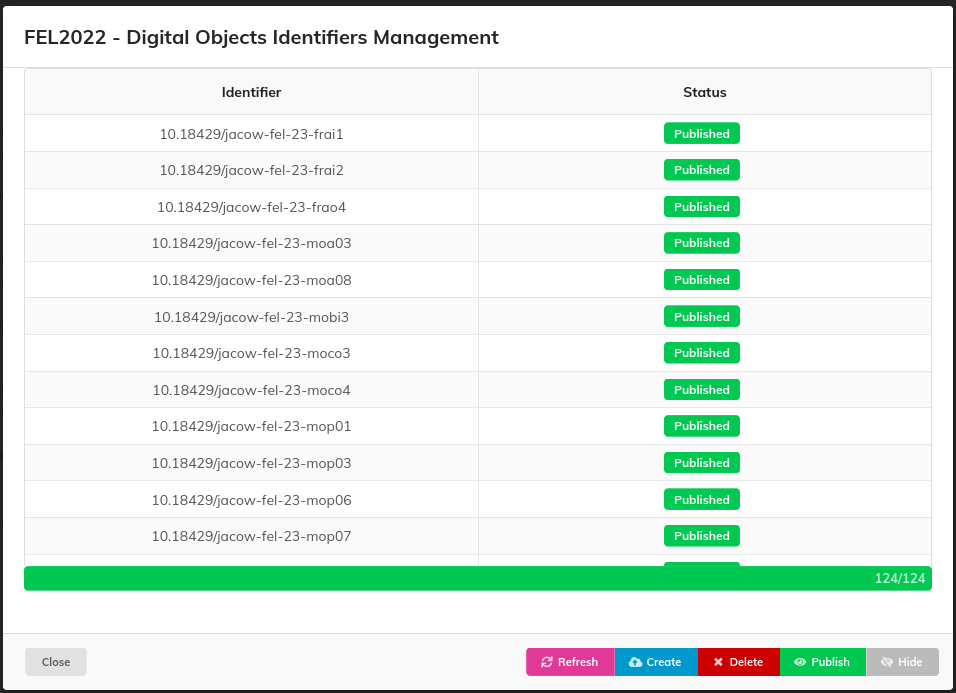
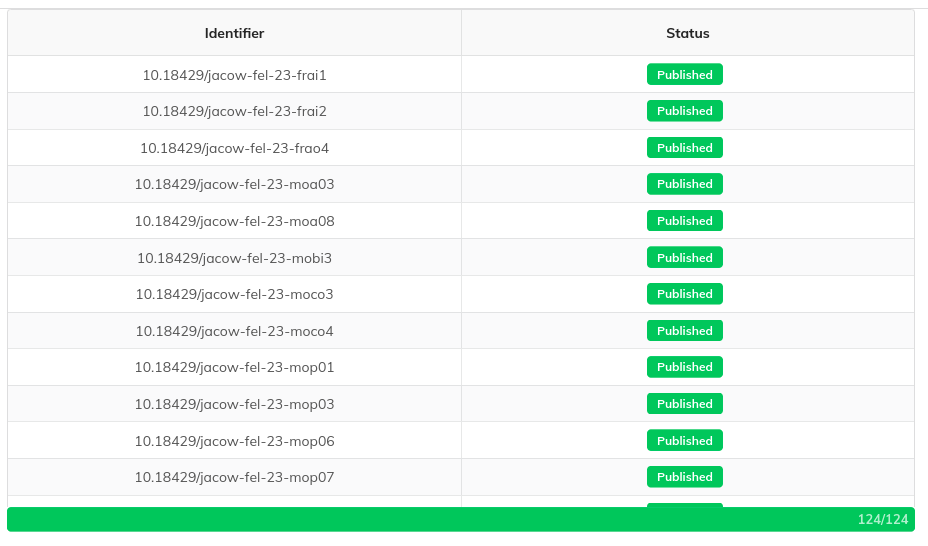
Special ISSN 0000-0000 function. DOI updates

diff --git a/docs/Functionalities/finalProceedings.md b/docs/Functionalities/finalProceedings.md
@@ -13,7 +13,7 @@ Both the 'Pre-Press' and 'Final Proceedings' buttons are related to the generati
 In fact, 'Pre-Press' involves:
 
 - Including contributions that have been accepted (green state) but have not undergone QA.
-- Excluding contribution slides, if any.
+- Excluding contribution slides and posters, if any.
 - Performing a PDF check that will log warnings without halting the task execution.
 - Skipping the generation of DOI payloads.
 - The link to each contribution's DOI page is internal and not on [DOI.org](https://doi.org).
@@ -22,7 +22,7 @@ In fact, 'Pre-Press' involves:
 On the other hand, 'Final Proceedings' involves:
 
 - Including ONLY contributions that have been accepted (green state) and have undergone QA.
-- Including contribution slides when available.
+- Including contribution slides and posters when available and QA'd OK.
 - Performing a PDF check that will log errors on the panel without halting the task execution.
 - Generating JSON payloads for each contribution's DOI.
 - The link to each contribution's DOI page is on [DOI.org](https://doi.org).
@@ -63,21 +63,33 @@ The "DOI" button is enabled only if the DOI payload files have been generated pr
 
 ![DOI open](pictures/doi-open.png)
 
+Following is the list of available actions:
+
+- **Login**: checks that CAT can correctly login (and, hence, operate) on Datacite.org. The progress bar colour differs from the various states of this check:
+  
+    - **Blue**: login status not checked yet.
+  
+    - **Green**: login successful, it is possible to manage DOIs.
+  
+    - **Red**: login unsuccessful: please review the DOI settings (see below).
+
+- **Refresh**: forces a refresh of the list above by querying Datacite.org.
+
+- **Create**: updates the status of the DOIs to "draft" (this action doesn't work if DOIs have already been published or registered).
+
+- **Delete**: deletes the DOIs from the datacite repository (this action doesn't work if DOIs have already been published or registered).
+
+- **Publish**: updates the status of the DOIs to "findable."
+
+- **Hide**: updates the status of the DOIs to "hidden" (this action changes the DOIs to "registered" if they have already been published once).
+
 As a result, the status of every DOI is listed:
 
 ![DOI successfull fetch](pictures/doi-fetch.png)
 
-Following is the list of available actions:
-
-- **Refresh**: fetches the status of the DOIs again.
-- **Create**: updates the status of the DOIs to "draft" (this action doesn't work if DOIs have already been published or registered).
-- **Delete**: deletes the DOIs from the datacite repository (this action doesn't work if DOIs have already been published or registered).
-- **Publish**: updates the status of the DOIs to "findable."
-- **Hide**: updates the status of the DOIs to "hidden" (this action changes the DOIs to "registered" if they have already been published once).
-
 ## Settings
 
-Settings for final proceedings are organized into several subsections.
+Settings for final proceedings are organised into several subsections.
 
 ### General
 
@@ -142,6 +154,9 @@ This section encompasses the following configuration options:
 
 This section is used to define the **ISBN** and **ISSN** of the conference.
 
+!!! Info "Note for proceedings without ISSN"
+    Not all conferences are assigned an ISSN number. To avoid any printing of non-existing ISSN numbers on the proceedings website and on papers, enter the special nuber `0000-0000`. Doing so CAT won't generate any text related to ISSN numbers.
+
 ### DOI
 
 ![Final proceedings settings: DOI section](pictures/settings-DOI.png)
@@ -168,7 +183,8 @@ The files are sourced from the event's materials in Indico. To add a material to
 
 ---
 
-**Important note**: the files that can go into the proceedings are set via the above window in PURR's settings. However, they must be uploaded beforehand as conference materials in Indico (*Organisation > Materials* menu entry in management interface). To let these files be reachable by PURR, be sure that you create a folder called `final_proceedings`. This folder can (and should) be protected and hidden from the general public.
+!!! Warning "Important note" 
+    The files that can go into the proceedings are set via the above window in PURR's settings. However, they must be uploaded beforehand as conference materials in Indico (*Organisation > Materials* menu entry in management interface). To let these files be reachable by PURR, be sure that you create a folder called `final_proceedings`. This folder can (and should) be protected and hidden from the general public.
 
 ![](pictures/settings-materials-indico.png)
 

diff --git a/docs/Functionalities/statusAndSettings.md b/docs/Functionalities/statusAndSettings.md
@@ -4,17 +4,21 @@ When PURR successfully connects to a MEOW remote instance, it is displayed as "c
 
 There will be three available buttons:
 
+- Show MEOW info/cleanup space
 - Manage Settings
-- Clear MEOW Folders
 - Disconnect
+
+### Show MEOW info/cleanup space
+
+This functionality shows how much space is occupied and available on the MEOW server. It is also possible to delete all the conference's folders in the MEOW instance. A confirmation prompt is shown before continuing. Perform this task only if strictly necessary, as it will remove the folders for every user working on this conference's final proceedings.
 
 ### Manage Settings
 
 This functionality covers settings management. Clicking on it opens a modal with an accordion containing three sections:
 
-  - [Abstract Booklet](abstractBooklet.md)
-  - [PDF Check](papersCheck.md)
-  - [Final Proceedings](finalProceedings.md)
+- [Abstract Booklet](abstractBooklet.md)
+- [PDF Check](papersCheck.md)
+- [Final Proceedings](finalProceedings.md)
 
 ![Settings modal](pictures/settings-modal.png)
 
@@ -23,10 +27,6 @@ Each section covers the specific settings of each main functionality. To learn m
 ![Incomplete settings](pictures/settings-incomplete.png)
 
 To save the settings, click the "Save" button. If all the required settings are provided, the modal will be closed; otherwise, an error message is displayed.
-
-### Clear MEOW Folders
-
-This functionality deletes all the conference's folders in the MEOW instance. A confirmation prompt is shown before continuing. Perform this task only if strictly necessary, as it will remove the folders for every user working on this conference's final proceedings.
 
 ### Disconnect
 

diff --git a/docs/index.md b/docs/index.md
@@ -22,28 +22,6 @@ When successfully connected with MEOW, there are four main functionalities explo
 
 Main authors:
 
-- Fabio Meneghetti
+- Fabio Meneghetti ([Akera](https://www.akera.it/))
 
-- Christian Obetti
-
-<!-- The workflow follows the one well documented in the [Organizing IPACs (and other JACoW Events)](https://www.jacow.org/Editors/RunningJACoWConference)  hosted on the official [Joint Accelerator Conferences Website (JACoW)](https://www.JACoW.org).
-
-As per the original document, the documentation is split in various chapters following 
-the normal IPAC workflow (e.g., *Initial setup*, *Proposals for Invited Contributions*, *General abstract submission*, etc.).
-However, an approach based on the *type of user* following the instructions has been chosen, as highlighted by the structure of the tree menu on the left.
-
-## Credits
-
-The documentation here available is built on multi-decennial experience in proceedings publication for [JACoW](https://www.jacow.org) scientific conferences.
-
-Main authors:
-
-- Christine Petit-Jean Genaz ([CERN](https://www.cern.ch))
-
-- Ivan Andrian ([Elettra Sincrotrone Trieste](https://www.elettra.eu))
-
-## Resources
-
-- [JACoW website](https://www.JACoW.org)
-- [Indico](https://getindico.io)
-- [Indico end-user documentation](https://learn.getindico.io/) -->
+- Christian Obetti ([Akera](https://www.akera.it/))
